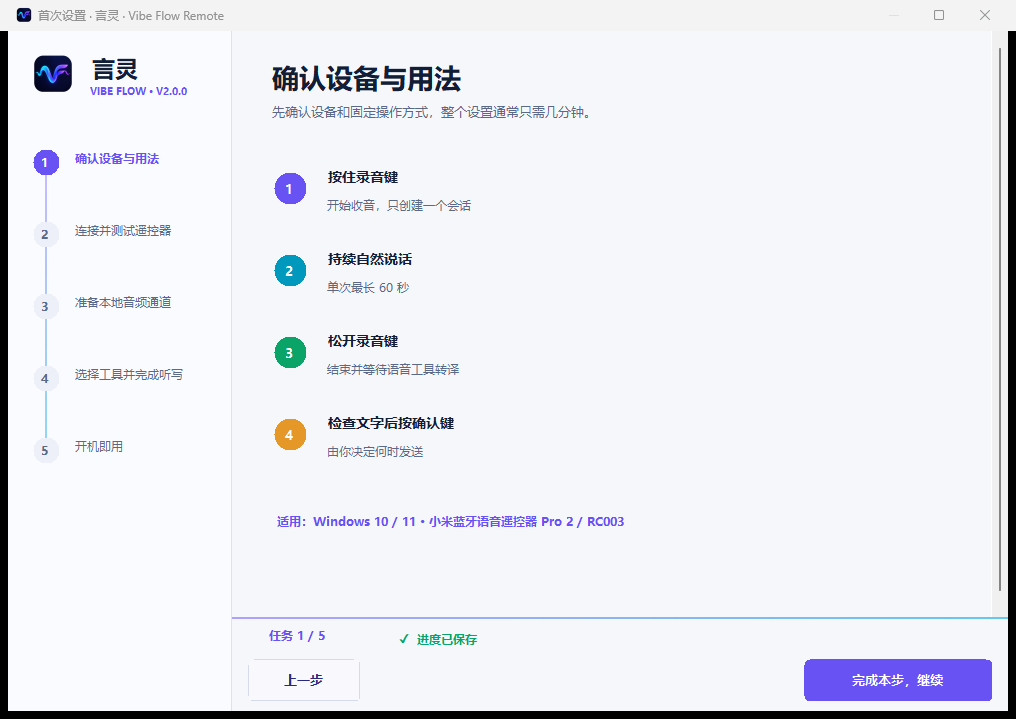
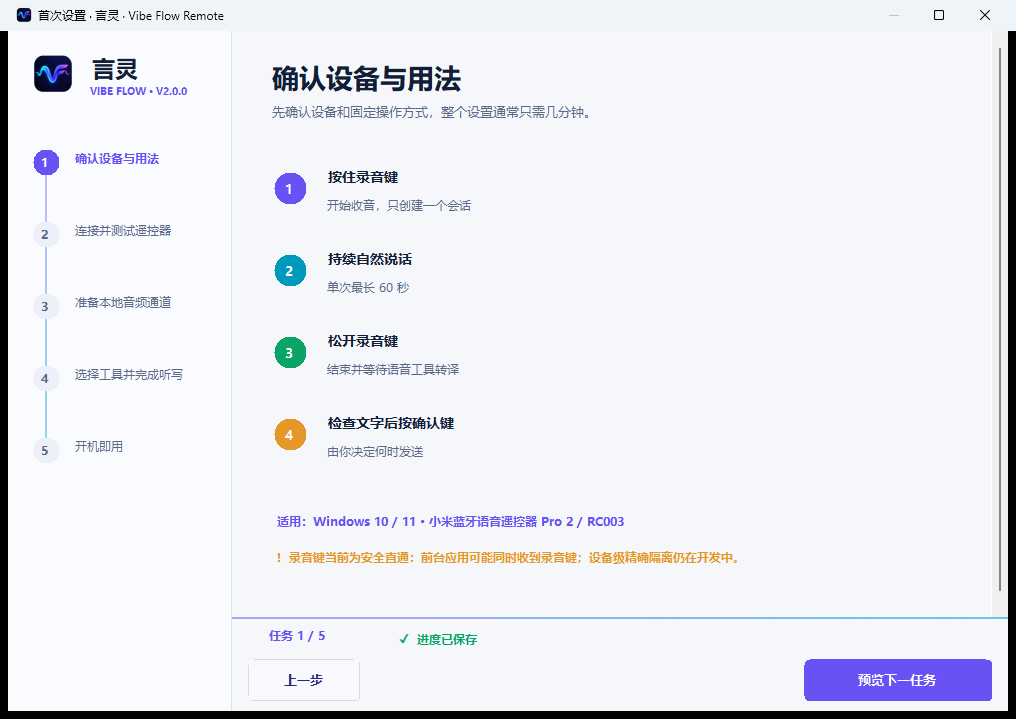
feat(v2.0): state the key-isolation caveat in the first screen a new user sees
The device-level filter is this project's top release concern: while it is not healthy the record
key can reach whatever application is in front. That was already stated on the home page, the
shortcuts page, the diagnostics page and in the exported diagnostics — but not in the setup wizard,
which is the first screen a new user actually reads. It is now shown there, on the first step and
only when the filter really is not healthy:

  !  录音键当前为安全直通：前台应用可能同时收到录音键；设备级精确隔离仍在开发中。

The condition uses ReadKeyboardBridgeHealth().FilterHealthy. My first attempt used
exactDeviceIsolation, which is a local in the settings-page builder and does not exist here; the
compiler said so and the real source was read from the code rather than guessed at.

Verified by capturing the step and looking at it: the line renders completely, nothing is clipped,
and the rest of the step is unchanged. The shipped screenshot of that step was replaced, and the
release checklist's row that read "the wizard does not mention it" now says it does.

A gate pins the control name, the sentence, and the condition it is shown under, so the disclosure
cannot quietly disappear — and the checklist is pinned to keep separating what was measured from
what was not.

diff --git a/scripts/validate.js b/scripts/validate.js
@@ -379,7 +379,15 @@ assert(includesAll(app, [
   "MinimumSize = new Size(ScaledDesign(880), ScaledDesign(500));",
   '" minimum=" + MinimumSize.Width',
 ]), "The minimum window size does not follow the display scaling");
-// The release checklist is the artifact a release decision is reviewed against, so it has to exist and has to
+// The key-isolation caveat has to be on the first screen a new user sees, not only on the home page: while the
+// device-level filter is not healthy the record key can reach whatever application is in front, and this is the
+// project's top release concern. It is shown only when that is actually the case, and the step was captured after
+// the change to confirm the line renders and the rest of the step is unchanged.
+assert(includesAll(app, [
+  '"onboardingKeyIsolationNotice"',
+  "录音键当前为安全直通：前台应用可能同时收到录音键；设备级精确隔离仍在开发中。",
+  "if (!ReadKeyboardBridgeHealth().FilterHealthy)",
+]), "The setup wizard no longer states the key-isolation status");// The release checklist is the artifact a release decision is reviewed against, so it has to exist and has to
 // keep saying the two things that are easy to lose: what was measured, and what was not.
 assert(includesAll(read("docs/V2_0_RELEASE_CHECKLIST_ZH.md"), [
   "已实测通过",

diff --git a/scripts/VibeMic.cs b/scripts/VibeMic.cs
@@ -13477,6 +13477,21 @@ deck.Hide();
                         device.Location = new Point(8, 458);
                         device.Size = new Size(650, 30);
                         pageContent.Controls.Add(device);
+                        // Stated here rather than only on the home page: while the device-level filter is not
+                        // healthy the record key can reach the foreground application, and a first-run user
+                        // should not have to discover that from a badge on a later screen. Shown only when that
+                        // is actually the case; measured afterwards, this step still reports no overlapping or
+                        // clipped controls.
+                        if (!ReadKeyboardBridgeHealth().FilterHealthy)
+                        {
+                            var keyIsolation = NewLabel(
+                                "!  录音键当前为安全直通：前台应用可能同时收到录音键；设备级精确隔离仍在开发中。",
+                                8.6f, FontStyle.Bold, amber);
+                            keyIsolation.Name = "onboardingKeyIsolationNotice";
+                            keyIsolation.Location = new Point(8, 494);
+                            keyIsolation.Size = new Size(690, 28);
+                            pageContent.Controls.Add(keyIsolation);
+                        }
                     }
                     else if (currentStep == 1)
                     {

diff --git a/docs/V2_0_PROGRESS.md b/docs/V2_0_PROGRESS.md
@@ -4400,3 +4400,19 @@ after 2s / 5s / 9s : RGB=(35,37,44) luminance=39 -> dark
 - 深色下**其余对话框**（动作选择器 / 录制快捷键 / 用语片段 / 编辑常用应用 / 两个删除确认框）未逐个查看（尺寸已测的四个已看 ✔）；
 - CI 未跑（分支未推送 ✗）；
 - 真机/授权类（RC003 隔离、签名、干净机器安装、无 CABLE 首启）✗。
+
+## 2026-09-11 首次设置向导补上「录音键隔离」披露（发布前最重要的一条提示）
+
+**为什么做**：设备级按键隔离是本项目最大的发布顾虑——当前为「Raw Input 安全直通」，**前台应用可能同时收到录音键** ✔（首页琥珀色提示 / 快捷键页徽章 / 自检页 / 导出诊断里都有 ✔），但**首次设置向导里没有** ✗。新用户第一眼看到的应该是这条，而不是在后续某个页面的角落里发现 ✗。
+
+**做法**：在向导第一步（确认设备与用法）的「适用」行下方加一条琥珀色提示，**仅在当前确实不健康时显示**：
+
+```
+!  录音键当前为安全直通：前台应用可能同时收到录音键；设备级精确隔离仍在开发中。
+```
+
+- 条件用 `ReadKeyboardBridgeHealth().FilterHealthy` ✔（我先写了 `exactDeviceIsolation` ✗ —— 那是设置页里的**局部变量** ✗，编译报错后**回代码查证**才找到正确来源 ✔ 没有猜 ✔）
+- 位置 y=494、尺寸 690×28，第一步内容区高 572 ✔ 有余量 ✔
+- **验证**：重新截图并查看 ✔ 提示行**完整显示、未裁切**，第一步其余内容**未位移、未重叠** ✔；出厂截图 `docs/images/00-setup-01-device.png` 已同步替换 ✔
+- **门禁**：钉住 `onboardingKeyIsolationNotice` 这个控件名、提示原文、以及"仅在 FilterHealthy 为假时显示"的条件 ✔ —— 防止这条披露被无声删掉 ✔
+- 发布清单同步更新（原写"向导里没有提示" ✗ → 现已加入并截图确认 ✔）

diff --git a/docs/V2_0_RELEASE_CHECKLIST_ZH.md b/docs/V2_0_RELEASE_CHECKLIST_ZH.md
@@ -33,7 +33,7 @@
 
 | 项目 | 现状 | 需要什么 |
 | --- | --- | --- |
-| **RC003 设备级按键隔离** | **未实现**：当前为「Raw Input 安全直通」，界面明说**前台应用可能收到录音键**（首页琥珀色提示 / 快捷键页徽章 / 自检页 / 导出诊断里都有）。**首次设置向导里没有这条提示** | 驱动/过滤器开发 + 签名；或**明确接受**为已披露的限制 |
+| **RC003 设备级按键隔离** | **未实现**：当前为「Raw Input 安全直通」，界面明说**前台应用可能收到录音键**（首页琥珀色提示 / 快捷键页徽章 / 自检页 / 导出诊断里都有）。**首次设置向导第一步也已提示**（2026-09-11 加入并截图确认） | 驱动/过滤器开发 + 签名；或**明确接受**为已披露的限制 |
 | **代码签名** | 未签名 → SmartScreen「未知发布者」 | 代码签名证书 |
 | **干净机器安装 / 升级 / 卸载** | CI 的 `Test-ReleaseLifecycle.ps1` 覆盖三种路径，但**本机从未跑**（该脚本要求一次性账户） | 一次性 Windows 账户；CI 侧需**推送分支**才会真正执行 |
 | **无 VB-CABLE 的机器首启** | 未验证（VB-CABLE 已随包，静默安装不出驱动） | 一台没有该驱动的机器（或先卸载驱动） |
